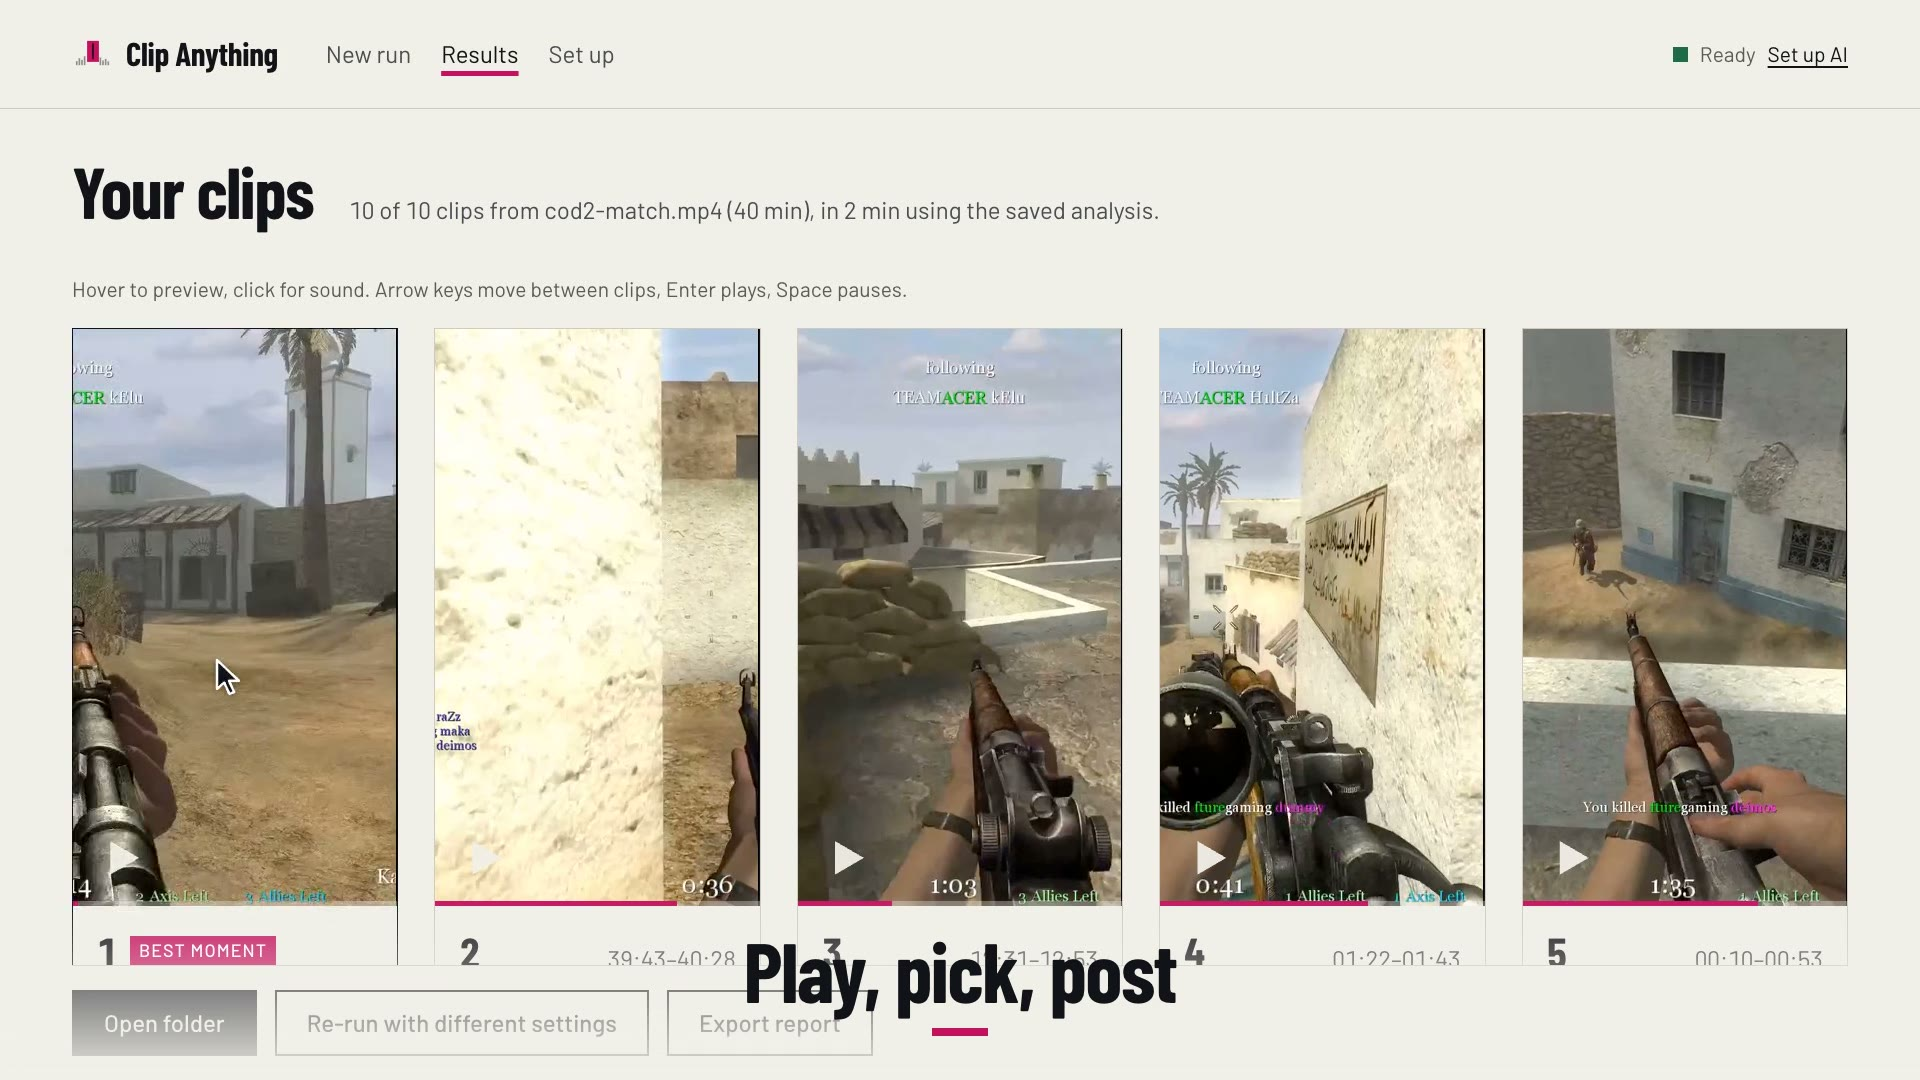
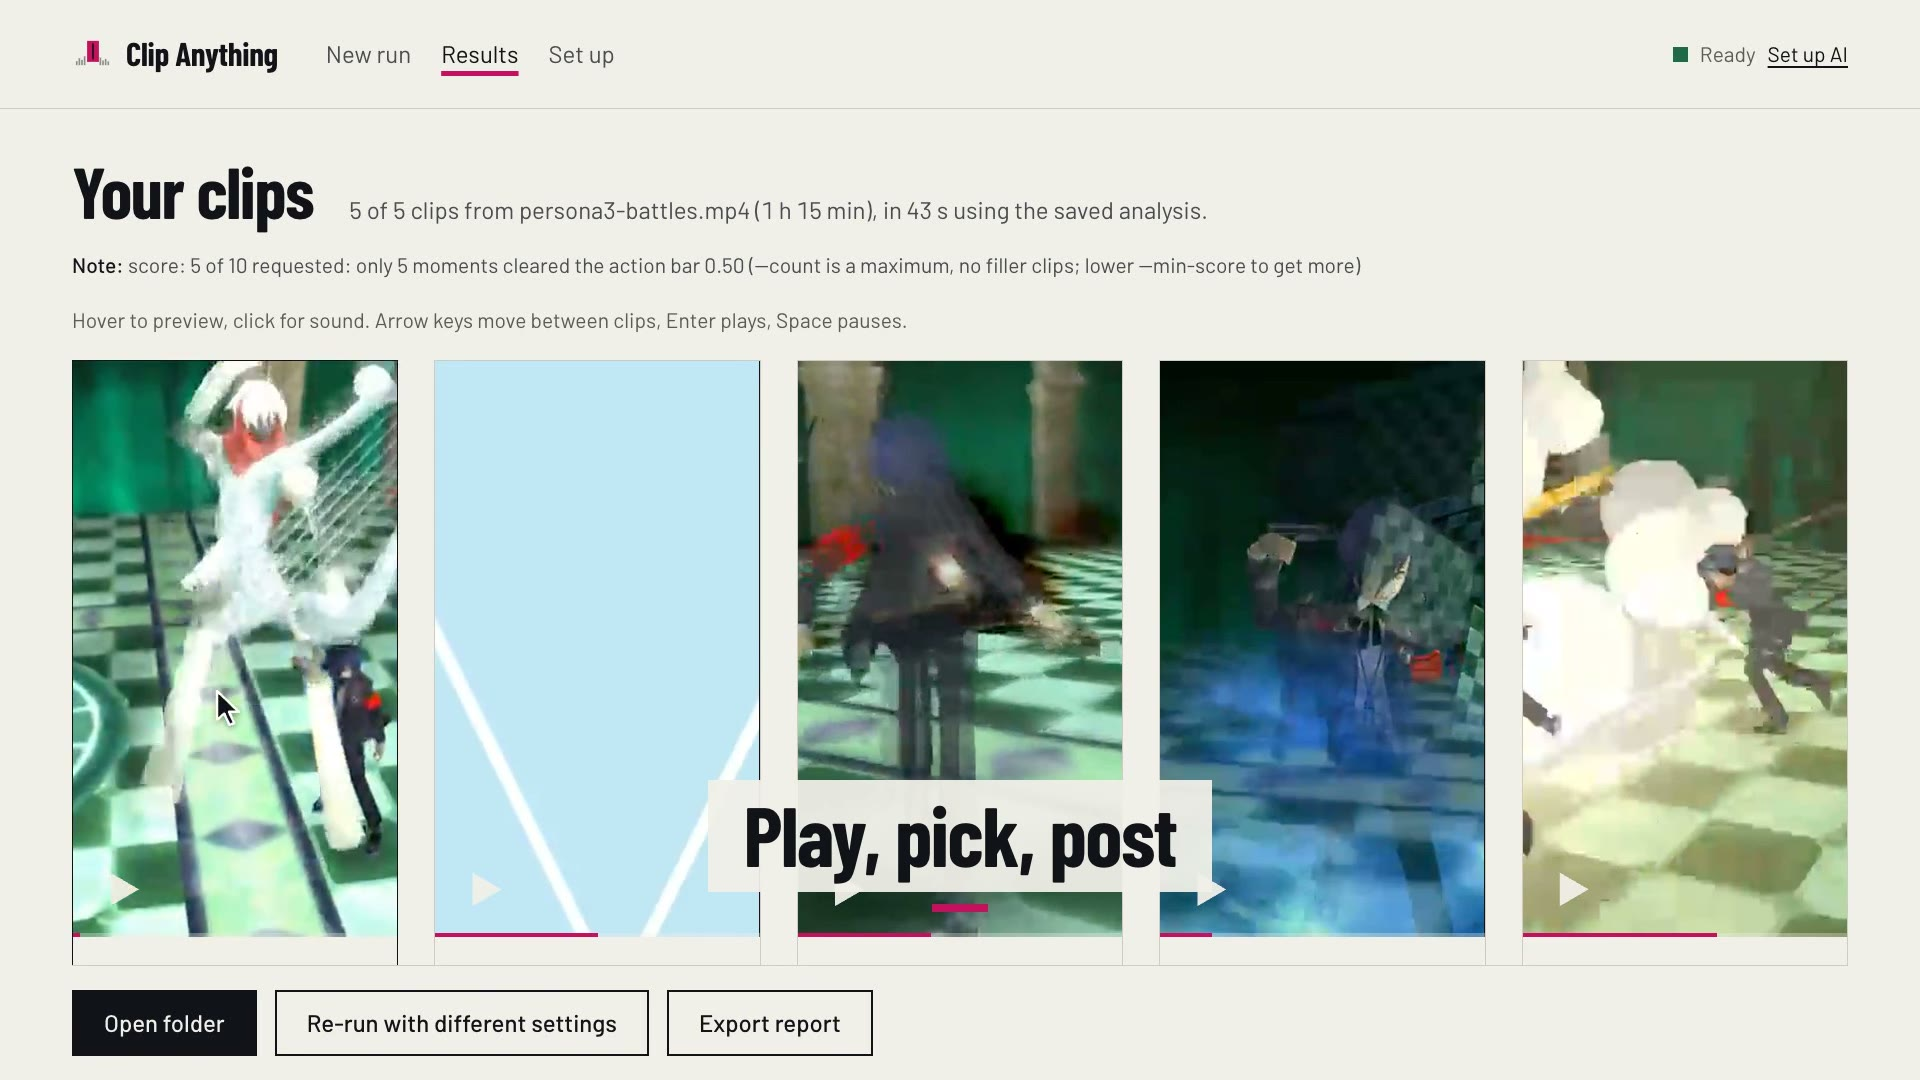
How-to reel re-recorded: RPG footage, captions off, tidy output path, captions clear of the dock

diff --git a/.planning/phases/09-howto-reel/09-01-SUMMARY.md b/.planning/phases/09-howto-reel/09-01-SUMMARY.md
@@ -4,8 +4,9 @@
 
 - **How-to reel** (`launch-video/capture.mjs` → `cards.mjs` → `edit.mjs`): the real local server driven by Playwright (recorded at 1080x1440 / 1920x1080 with CSS zoom 1.5, since Playwright records CSS pixels), a drawn cursor and file chip for the drag, `recent.json` parked during the take, Finder's "Open folder" answered by a route stub. Beats: drop → Make 10 clips → run (stage, wait and renders time-lapsed on the beat marks) → results, hover-play, Copy post text, Open folder → end card. Captions in Barlow Condensed as PNG overlays (fonts embedded), silent AAC track. `howto-reel.mp4` 1080x1920 30 fps 30.3 s 3.7 MB; `howto-16x9.mp4` 5.0 MB; `howto.gif` 540 px 10 fps 1.8 MB; `howto-poster.jpg`.
 - **Explainer** (`explainer_data.py` → `explainer.mjs`): the COD match's cached `signals.npz` run through the library's own `action_score` (audio/visual evidence, score, static-card factor, 10 picked spans, a real menu bump at 13:11), pooled to 360 points and drawn per frame on a canvas (825 deterministic screenshots → ffmpeg). Beats: timeline → sound → motion → both rise together (menu crossed out) → the bar on the evidence series (the one `min_evidence` applies to) with 10 clips lifting out → No upload / No account / No AI → end card. `explainer-reel.mp4` 27.5 s 1.4 MB; `explainer-16x9.mp4` 1.5 MB; poster.
+- **Re-recorded (owner notes):** on the Persona 3 Portable CC BY 3.0 recording (no weapon imagery; attribution in the end card), captions off so the run shows the stages and the live curve, output path shown as `~/Movies/clips` (never the account name), wide captions boxed above the dock; 5 of 10 asked clips clear the bar, shown honestly. `howto-reel.mp4` 28.7 s 2.9 MB; 16:9 3.7 MB; GIF 1.4 MB.
 - **Published:** Desktop copies `~/Desktop/clip-anything-howto-reel.mp4` and `~/Desktop/clip-anything-explainer-reel.mp4`; repo `assets/howto.gif` + `howto-poster.jpg`, README "See it in 30 seconds" and the explainer link under "How it picks moments"; site: media files behind the how-to figure (its markup had already landed via #29 without media, so it 404'd live) and the explainer figure in "One pass, seven stages" (muted loop, pause button, vertical download). Live: both videos and all six media URLs serve 206 on shipatmidnight.dev. Contact sheets: `.planning/phases/09-howto-reel/shots/howto-reel-contact-sheet.jpg`, `explainer-reel-contact-sheet.jpg` (gitignored).
 
 **Gates:** site `npm test` 6/6, 390 px no overflow, no third-party requests (only `/api/ideas` 404 under the static test server); PR #21 CI pending at write time. Worked from separate git worktrees (`~/clip-anything-howto`, `~/shipatmidnight-howto`) because other agents were switching branches in both checkouts.
 
-**Weak / next:** the run screen shows "Transcribing speech" for most of the time-lapsed segment (first captioned run in a fresh venv loads the model for 12 s); the wide cut's lower-third caption sits over the dock; the explainer traces are dense on the 9:16 canvas; no sound; the how-to shows the owner's home path in "Clips go to".
+**Weak / next:** the explainer traces are dense on the 9:16 canvas; no sound.
